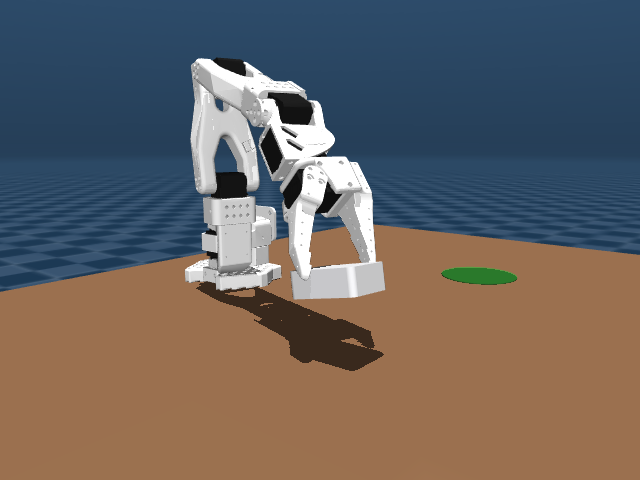
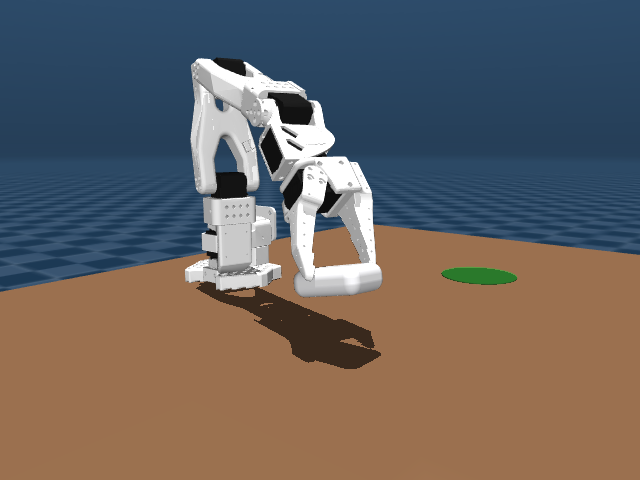
Make AirPods case fully rounded, matching reference photos
Previous version only rounded the vertical perimeter (flat top/bottom
with rounded sides), which didn't match the real case's stadium-like
shape -- the end-on view in particular should look like a pill, fully
rounded in the thickness direction too, not just the footprint corners.

Rebuilt as a proper rounded cuboid: Minkowski sum of a box with a 9mm
sphere, decomposed into 27 primitives (core box + 6 face slabs + 12
edge cylinders + 8 corner spheres). Re-verified against reference
photos (top view and end-on view) and all collision/grasp checks still
pass.

Changed region(s): [[0.4375, 0.4062, 0.625, 0.625], [0.4375, 0.7188, 0.4688, 0.75]]

diff --git a/sim_mujoco/README.md b/sim_mujoco/README.md
@@ -13,12 +13,13 @@ Newton (GPU MuJoCo backend) on the RTX 2070 Super box.
       [MuJoCo Menagerie](https://github.com/google-deepmind/mujoco_menagerie)'s `trs_so_arm100`)
 - [x] Table + graspable object + target zone scene, physics-stable, resting on the floor (not
       floating/clipped through it — fixed an early bug where the floor and tabletop were coplanar)
-- [x] Graspable object is a rounded rectangle modeled on a real AirPods Pro (2nd gen) MagSafe
+- [x] Graspable object is a fully rounded cuboid modeled on a real AirPods Pro (2nd gen) MagSafe
       case — 60.6 x 45.2 x 21.7mm, 50.8g, dimensions and mass from
       [Apple's official tech specs](https://support.apple.com/en-us/111851), not estimated.
-      Built as a compound body (core box + edge boxes + corner cylinders) so the vertical
-      perimeter is actually curved, not a sharp-edged box; corner radius (5mm) is a visual
-      approximation, not an Apple spec
+      Built as a 27-primitive compound body (Minkowski sum of a box with a sphere: core box + 6
+      face slabs + 12 edge cylinders + 8 corner spheres) so it's rounded all around — matching
+      reference photos' stadium-like cross-section — not just a sharp box or vertical-only
+      rounding; the 9mm edge/corner radius is a visual approximation, not an Apple spec
 - [x] Minimal Python env wrapper (`envs/so100_pick_place.py`) with reset/step/observation
 - [x] Collision geometry verified: visual/collision mesh alignment, passive stability, self-collision
       sweep across full joint range, and a functional grasp-and-lift contact test (grasping and
